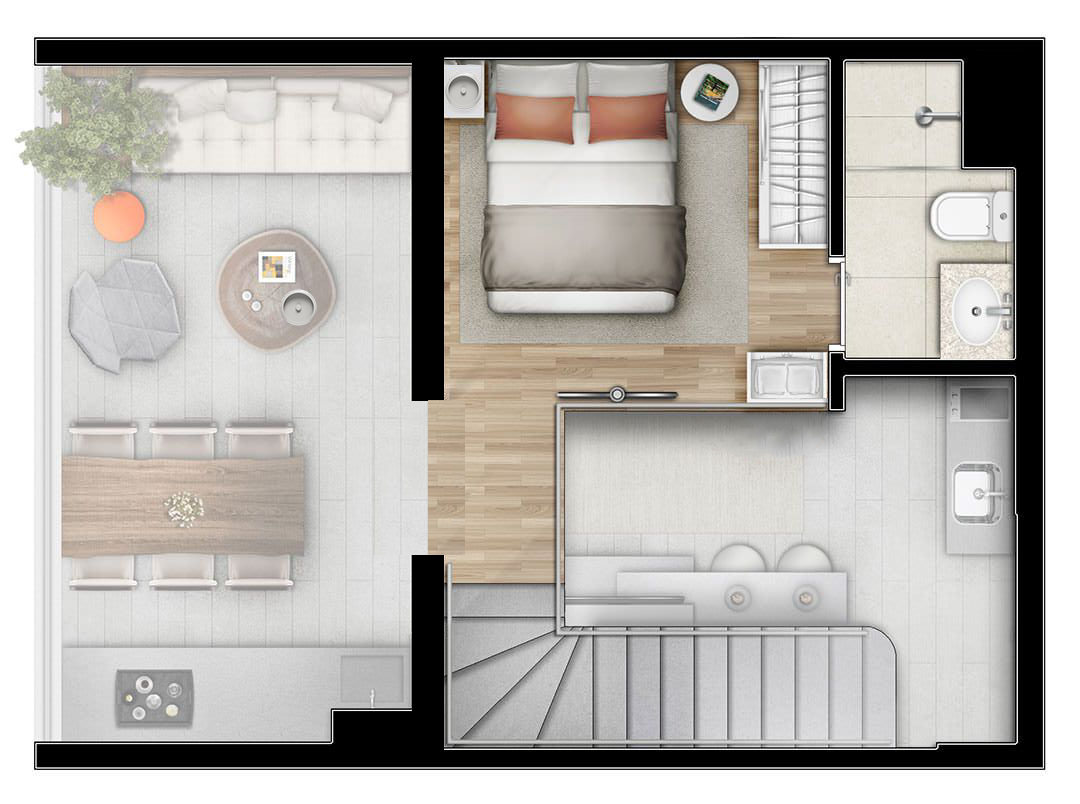
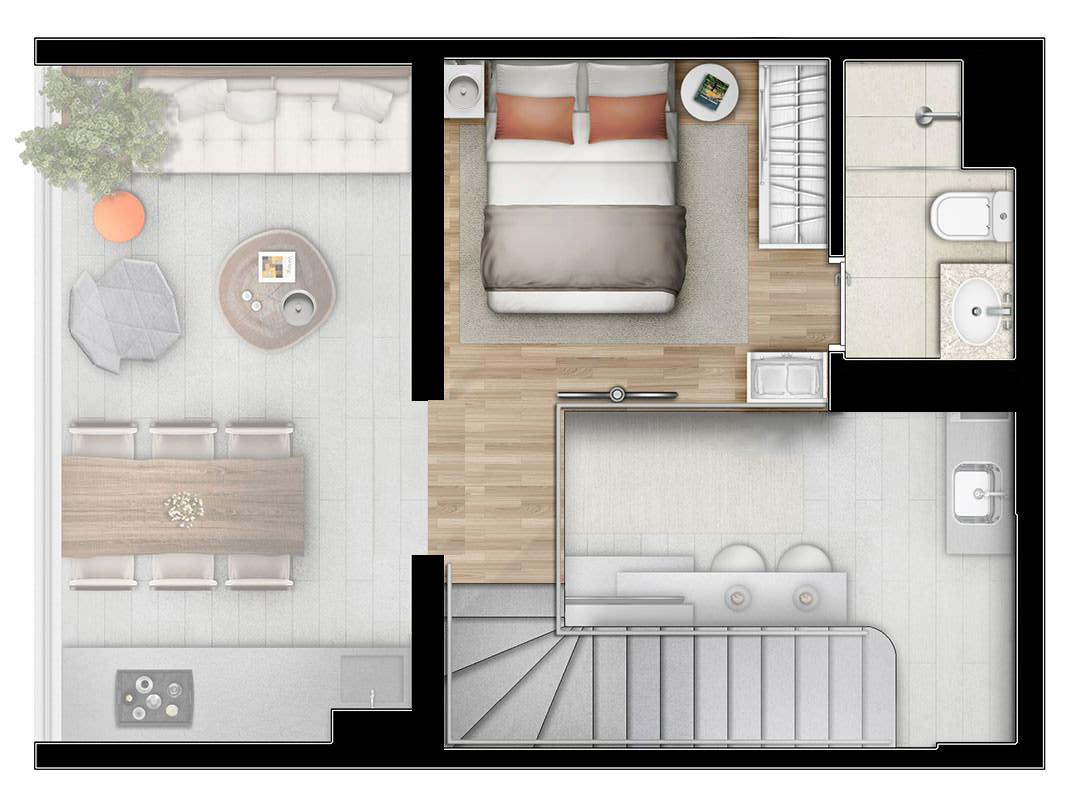
Add bathroom and lights bedroom

Changed region(s): [[0.7639, 0.4664, 0.9472, 0.5286]]

diff --git a/index.js b/index.js
@@ -1,5 +1,6 @@
-const myBulb = document.getElementById("room-1-light-1");
-const room = document.getElementById("room");
+const bedroomLamp = document.getElementById("light-bedroom");
+const bedroom = document.getElementById("bedroom");
+const bathroom = document.getElementById("bathroom");
 // Obtén el contenedor del video y el elemento de video
 const videoContainer = document.getElementById("video-container");
 const videoElement = document.getElementById("video-element");
@@ -48,12 +49,16 @@ navigator.mediaDevices
         console.log(text);
         // Si text incluye "prende la luz"
         // Entonces prende la luz
-        if (text.includes("prende la luz")) {
-          room.classList.add("lights-on");
-          myBulb.classList.add("ligth-room--on");
-        } else if (text.includes("apaga la luz")) {
-          room.classList.remove("lights-on");
-          myBulb.classList.remove("ligth-room--on");
+        if (text.includes("prende la luz de la habitación")) {
+          bedroom.classList.add("lights-on");
+          bedroomLamp.classList.add("light-room--on");
+        } else if (text.includes("apaga la luz de la habitación")) {
+          bedroom.classList.remove("lights-on");
+          bedroomLamp.classList.remove("light-room--on");
+        } else if (text.includes("prende la luz del baño")) {
+          bathroom.classList.add("lights-on");
+        } else if (text.includes("apaga la luz del baño")) {
+          bathroom.classList.remove("lights-on");
         } else if (text.includes("prende la cámara")) {
           startCamera();
         } else if (text.includes("apaga la cámara")) {

diff --git a/styles.css b/styles.css
@@ -4,13 +4,16 @@
   height: 400px;
 }
 
-#room {
+#bedroom {
   position: absolute;
-  background-color: rgba(0, 0, 0, 0.8);
   width: 337px;
   height: 291px;
   top: 48px;
   left: 368px;
+}
+
+.room {
+  background-color: rgba(0, 0, 0, 0.8);
   transition: all 1s ease;
 }
 
@@ -23,26 +26,27 @@
   height: auto;
 }
 
-.ligth-room--on {
+.light-room--on {
   background-image: url("https://andlight.co.uk/images/fatboy-oloha-large-desert-packshot-05-105884_-p.png");
   background-repeat: no-repeat;
   background-size: cover;
-  position: absolute;
   transition: all 1s ease;
 }
 
-#room-1-light-1 {
+#light-bedroom {
+  position: absolute;
   top: 3px;
   left: -7px;
   width: 50px;
   height: 45px;
 }
 
-#kitchen {
-  top: 200px;
-  left: 300px;
-  width: 200px;
-  height: 150px;
+#bathroom {
+  position: absolute;
+  top: 48px;
+  left: 699px;
+  width: 151px;
+  height: 258px;
 }
 
 #div3 {

diff --git a/index.html b/index.html
@@ -9,12 +9,16 @@
   </head>
   <body>
     <div class="container">
-      <div id="room">
-        <div id="room-1-light-1" class="ligth-room"></div>
-      </div>
       <img src="Apartment.png" alt="Imagen" class="image" />
 
-      <div id="div2" class="overlay"></div>
+      <div id="bedroom" class="room">
+        <div id="light-bedroom"></div>
+      </div>
+
+      <div id="bathroom" class="room">
+        <div id="light-bedroom"></div>
+      </div>
+
       <div id="div3" class="overlay"></div>
     </div>
     <div
